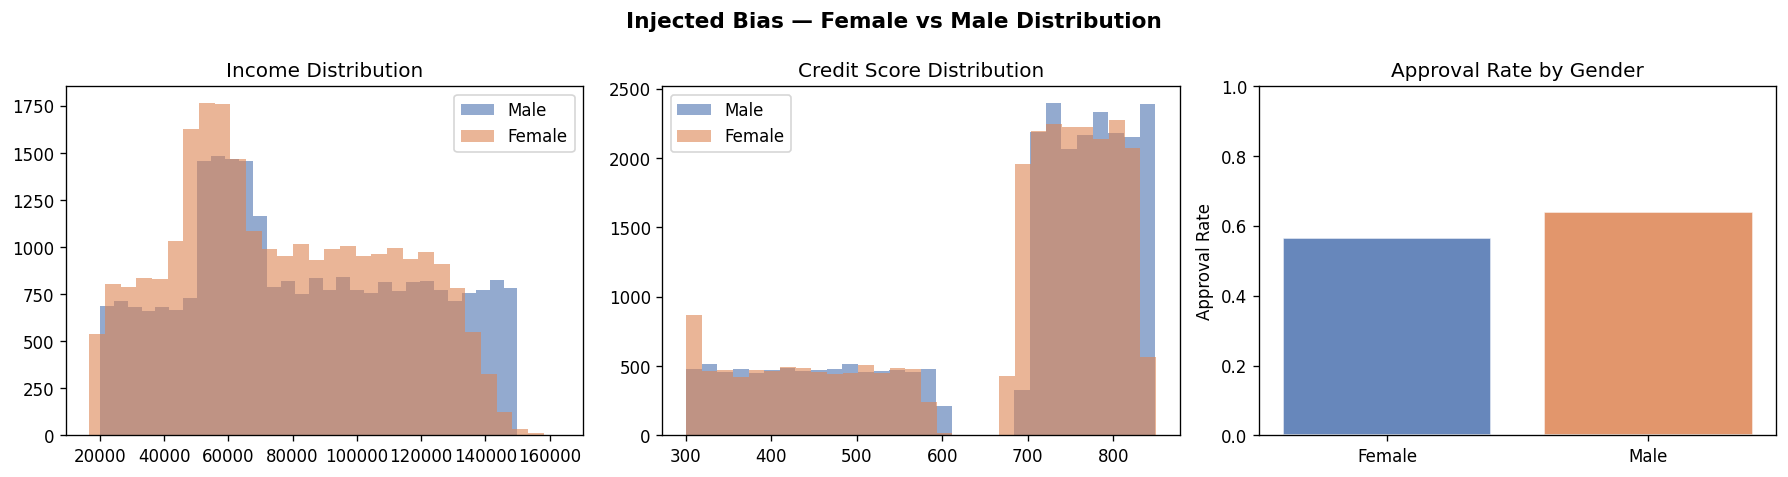
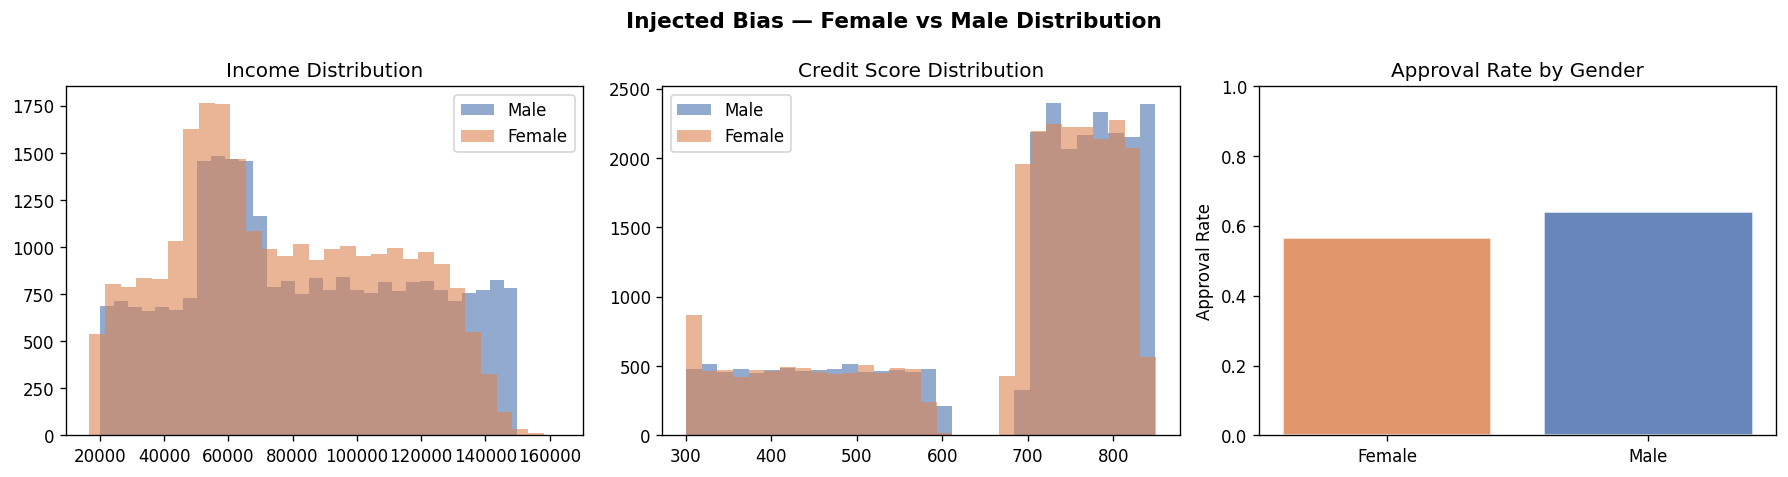
solved step 7 part 1-2

Changed region(s): [[0.7075, 0.4403, 0.9843, 0.9099]]

diff --git a/pipeline/pipeline_framework.py b/pipeline/pipeline_framework.py
@@ -55,6 +55,21 @@ from fair_transformers import (
     InstanceReweighting,
     SMOTEResampler,
 )
+from sklearn.compose import ColumnTransformer
+from sklearn.preprocessing import OrdinalEncoder, StandardScaler
+from sklearn.pipeline import Pipeline as SKPipeline
+
+def _build_preprocessor(df: pd.DataFrame):
+    cat_cols = df.select_dtypes(include=['object', 'category']).columns.tolist()
+    num_cols = df.select_dtypes(include='number').columns.tolist()
+
+    return ColumnTransformer(
+        transformers=[
+            ('num', StandardScaler(), num_cols),
+            ('cat', OrdinalEncoder(handle_unknown='use_encoded_value', unknown_value=-1), cat_cols),
+        ],
+        remainder='drop'
+    )
 
 # ---------------------------------------------------------------------------
 # Transformer registry  – maps config class names → Python classes
@@ -312,6 +327,18 @@ class FairPipelineBuilder:
         feature_cols = [c for c in df_processed.columns if c not in exclude]
         X = df_processed[feature_cols + sensitive_cols]   # keep sensitive for transformers
         y = df_processed[target_col]
+
+        cat_cols = X.select_dtypes(include=["object", "category"]).columns.tolist()
+        if cat_cols:
+            from sklearn.preprocessing import OrdinalEncoder
+            enc = OrdinalEncoder(
+                handle_unknown="use_encoded_value",
+                unknown_value=-1,
+            )
+            X = X.copy()
+            X[cat_cols] = enc.fit_transform(X[cat_cols])
+            self._categorical_encoder = enc          # salvato per predict
+            self._encoded_cat_cols    = cat_cols
 
         # 5. Fit — pass sample_weight if InstanceReweighting was used
         fit_params = {}
